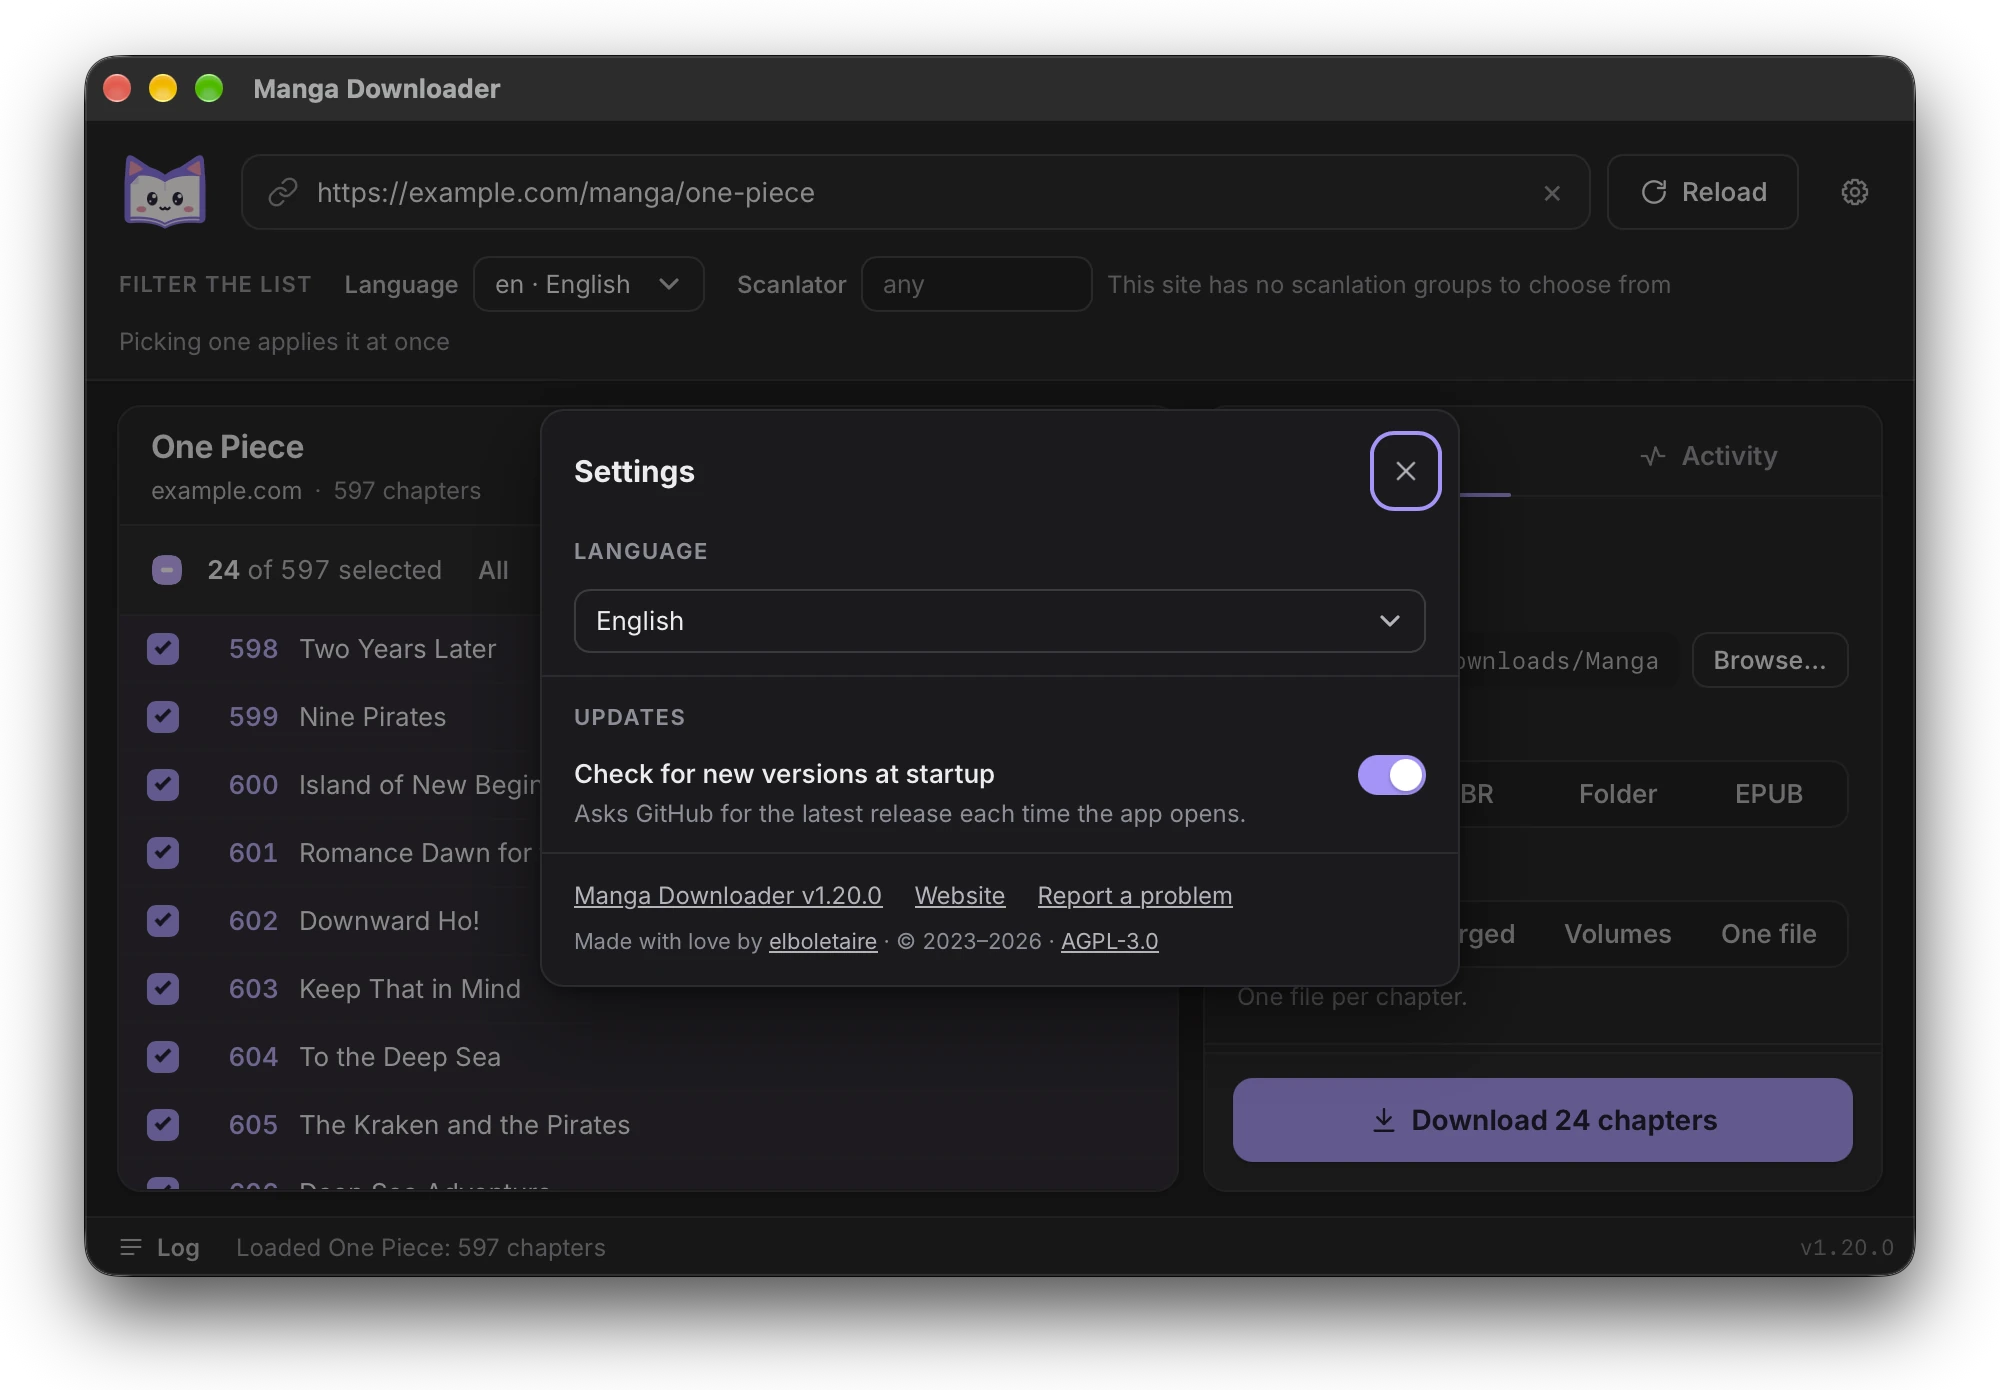
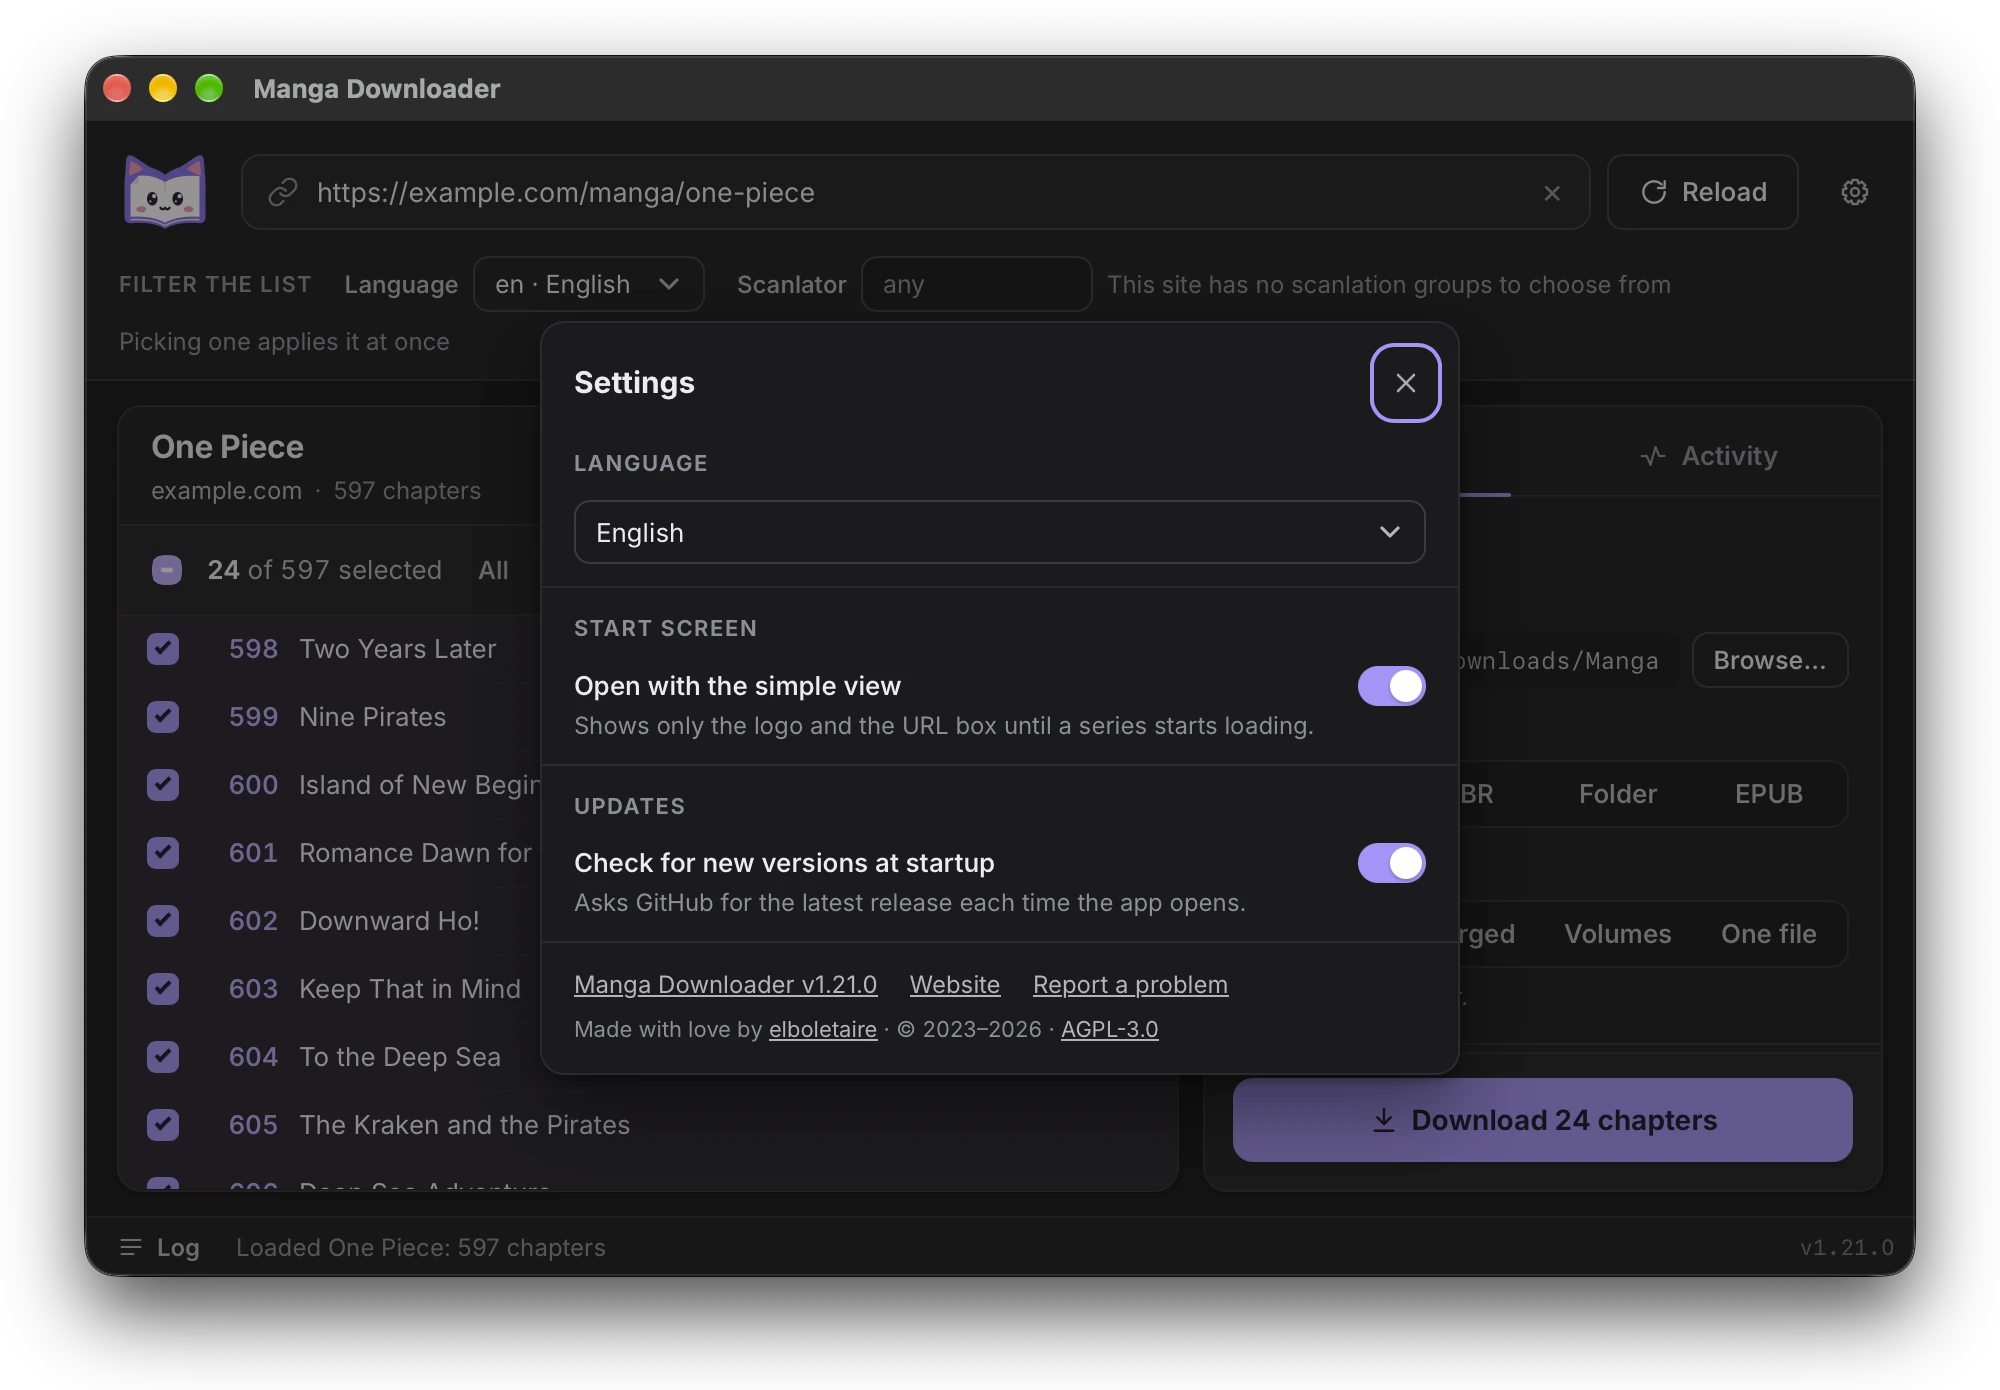
docs: retake the start and settings screenshots at v1.21.0 (#396)
* docs: retake the start and settings screenshots at v1.21.0

capture-all.sh takes SHOTS to retake only some of the shots.

* docs: name the start screen in the settings screenshot's alt text

---------

diff --git a/gui/frontend/src/mock.test.ts b/gui/frontend/src/mock.test.ts
@@ -274,20 +274,20 @@ describe('createMockApi', () => {
     expect((await createMockApi('done').state()).version).toBe('v0.0.0-mock');
   });
 
-  it('shows v1.20.0 for all scenarios with shot, v1.21.0 as the update', async () => {
+  it('shows v1.21.0 for all scenarios with shot, v1.22.0 as the update', async () => {
     const update = await createMockApi({ scenario: 'update', shot: true }).state();
-    expect(update.version).toBe('v1.20.0');
-    expect(update.update?.latest).toBe('v1.21.0');
+    expect(update.version).toBe('v1.21.0');
+    expect(update.update?.latest).toBe('v1.22.0');
 
     const loaded = await createMockApi({ scenario: 'loaded', shot: true }).state();
-    expect(loaded.version).toBe('v1.20.0');
+    expect(loaded.version).toBe('v1.21.0');
     expect(loaded.update).toBeNull();
   });
 
   it('links the version to its release whenever it reports a release', async () => {
     const tag = (v: string) => `https://github.com/elboletaire/manga-downloader/releases/tag/${v}`;
-    expect((await createMockApi({ scenario: 'loaded', shot: true }).state()).releaseURL).toBe(tag('v1.20.0'));
-    expect((await createMockApi({ scenario: 'update', shot: true }).state()).releaseURL).toBe(tag('v1.20.0'));
+    expect((await createMockApi({ scenario: 'loaded', shot: true }).state()).releaseURL).toBe(tag('v1.21.0'));
+    expect((await createMockApi({ scenario: 'update', shot: true }).state()).releaseURL).toBe(tag('v1.21.0'));
     expect((await createMockApi('update').state()).releaseURL).toBe(tag('v1.12.0'));
     expect((await createMockApi('loaded').state()).releaseURL).toBe('');
   });
@@ -298,7 +298,7 @@ describe('createMockApi', () => {
     expect(shot?.prompt).toBeUndefined();
 
     const prompt = (await createMockApi({ scenario: 'update', shot: true, prompt: true }).state()).update;
-    expect(prompt).toMatchObject({ latest: 'v1.21.0', oneClick: true, prompt: true });
+    expect(prompt).toMatchObject({ latest: 'v1.22.0', oneClick: true, prompt: true });
     expect((await createMockApi({ scenario: 'loaded', prompt: true }).state()).update).toBeNull();
   });
 

diff --git a/gui/frontend/src/mock.ts b/gui/frontend/src/mock.ts
@@ -188,9 +188,9 @@ const MOCK_ALERT = msgOf('browser.alertNamed', { browser: 'Brave', host: 'check.
 
 const REPO = 'https://github.com/elboletaire/manga-downloader';
 const RELEASE_VERSION_DEV = 'v1.12.0';
-const RELEASE_VERSION_SHOT = 'v1.20.0';
+const RELEASE_VERSION_SHOT = 'v1.21.0';
 const UPDATE_VERSION_DEV = 'v1.13.0';
-const UPDATE_VERSION_SHOT = 'v1.21.0';
+const UPDATE_VERSION_SHOT = 'v1.22.0';
 
 function siteFrom(search: string): MockSite {
   const value = new URLSearchParams(search).get('site');

diff --git a/tools/screenshots/README.md b/tools/screenshots/README.md
@@ -76,6 +76,13 @@ English-only), and every language's crops and hero in the website's
 `src/assets/screenshots/`: English at its root, `es` and `ca` in a `<lang>/`
 folder. Without `--install` the PNGs stay in `out/<lang>/`.
 
+`SHOTS` retakes only the shots named, for a change that touched one or two of
+them; the website's crops are left alone then, since they need every source:
+
+```bash
+SHOTS="01-start 13-settings" tools/screenshots/capture-all.sh --install
+```
+
 A translated label that changes a panel's size needs its crop checked in
 `website/build/crop-screenshots.sh`: the crops assume the panels sit where they
 do in English, which holds only while the window size is fixed. The Language

diff --git a/README.md b/README.md
@@ -146,7 +146,7 @@ The gear icon (below the URL box on the start screen, in the header of the full 
 
 <picture>
   <source media="(prefers-color-scheme: dark)" srcset="assets/screenshots/13-settings-dark.webp">
-  <img alt="The Settings dialog, with the app's language and the update check" src="assets/screenshots/13-settings-light.webp">
+  <img alt="The Settings dialog, with the app's language, the start screen and the update check" src="assets/screenshots/13-settings-light.webp">
 </picture>
 
 ### Command line
